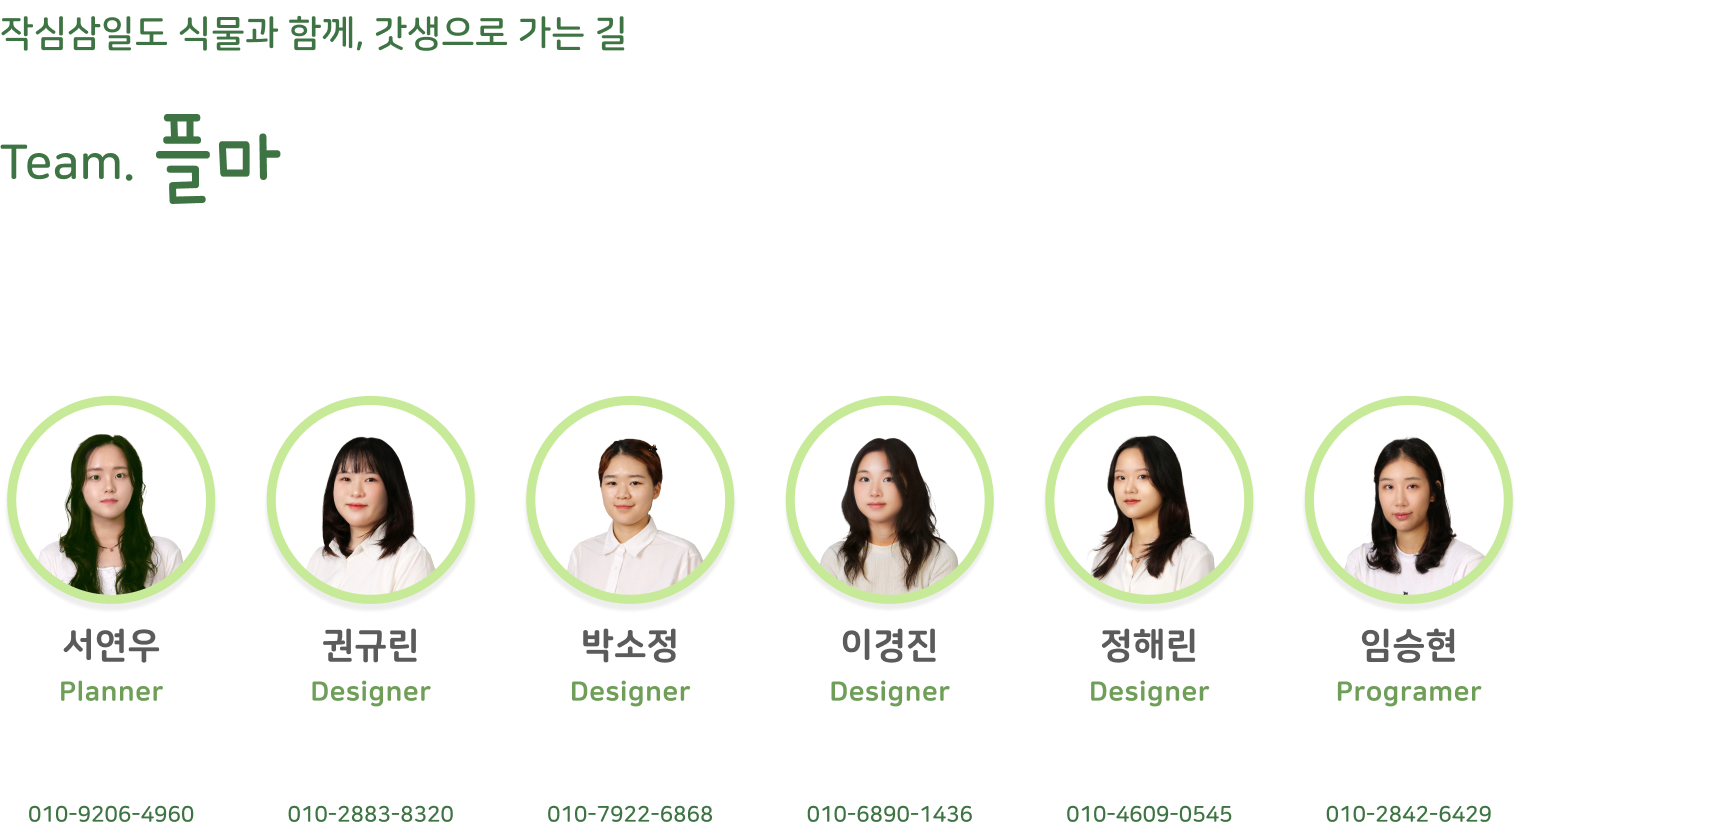
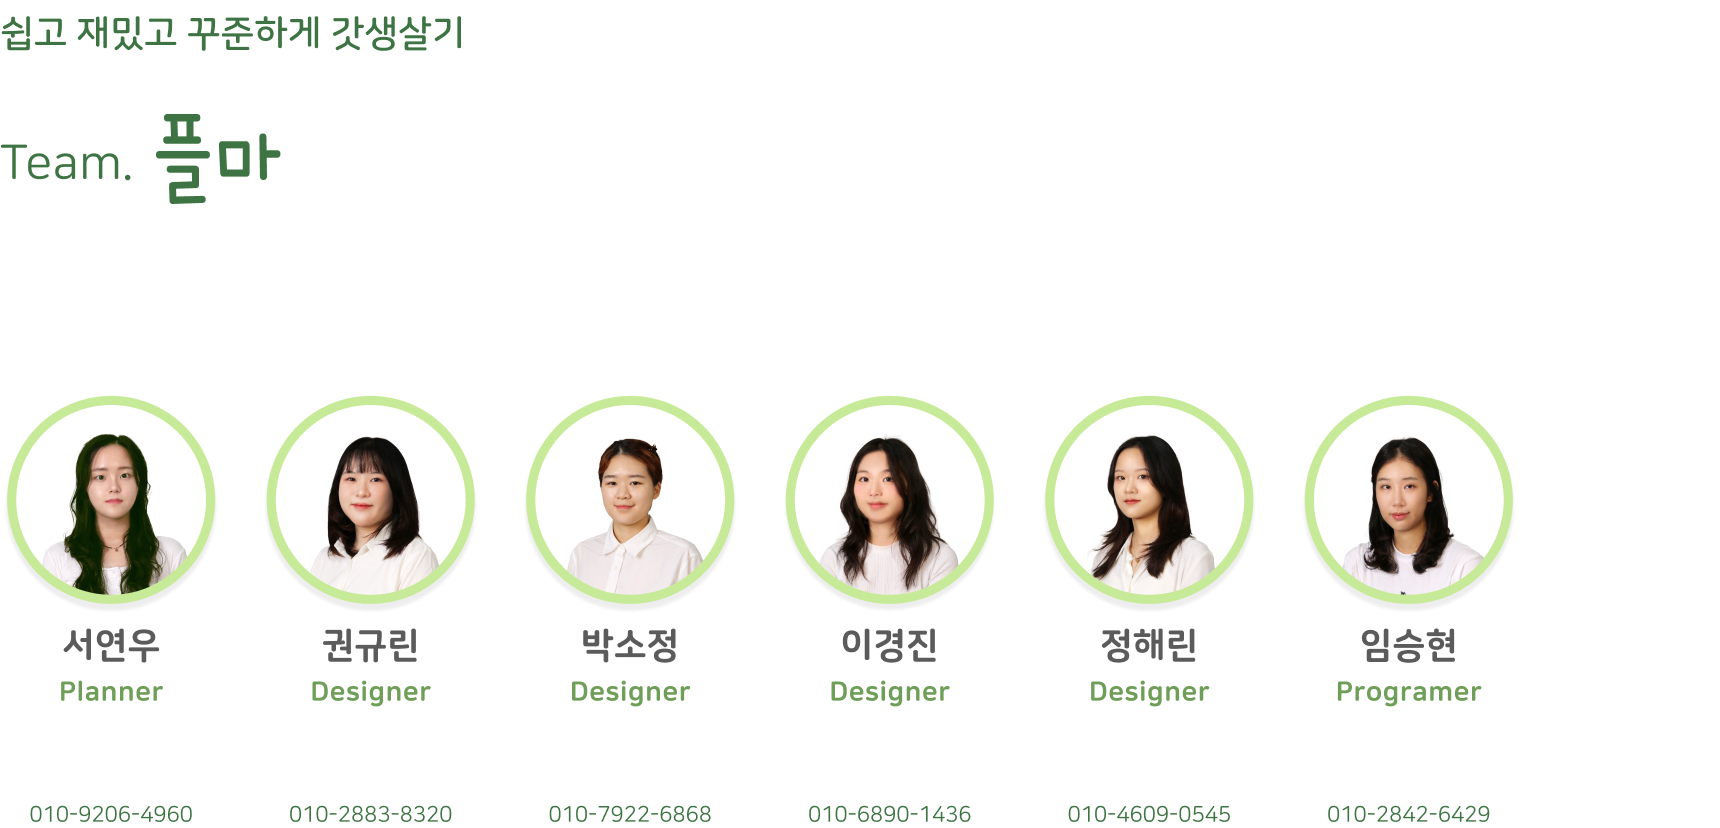
up

diff --git a/index.html b/index.html
@@ -3,7 +3,7 @@
 <head>
     <meta charset="UTF-8">
     <meta name="viewport" content="width=device-width, initial-scale=1.0">
-    <title>작심삼일도 식물과 함께 갓생으로 가는 길, 플마</title>
+    <title>쉽고 재밌고 꾸준하게 갓생살기, 플마</title>
     <link rel="stylesheet" href="style.css">
 </head>
 <body>
